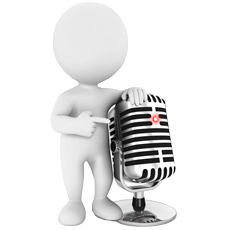
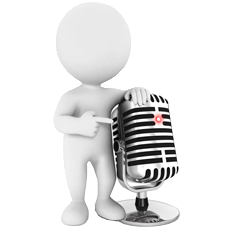
3.2.108

diff --git a/src/XMusic/cpp/mainwindow.cpp b/src/XMusic/cpp/mainwindow.cpp
@@ -650,7 +650,16 @@ void MainWindow::_relayout()
         }
 
         int cy_SingerImg = y_labelAlbumName-y_SingerImg;
-        int cx_SingerImg = cy_SingerImg * rcSingerImg.width() / rcSingerImg.height();
+
+        int cx_SingerImg = 0;
+        cauto pPixmap = ui.labelSingerImg->pixmap();
+        if (pPixmap && !pPixmap->isNull())
+        {
+            //cx_SingerImg = cy_SingerImg*1.05; //cy_SingerImg * rcSingerImg.width() / rcSingerImg.height();
+
+            cx_SingerImg = cy_SingerImg * pPixmap->width() / pPixmap->height();
+            cx_SingerImg = MIN(cx_SingerImg, cy_SingerImg*1.25);
+        }
 
         int x_SingerImg = x;
         if (!bZoomoutSingerImg)
@@ -715,11 +724,11 @@ void MainWindow::_relayout()
         }
     }
 
-//    auto pPixmap = ui.labelSingerImg->pixmap();
-//    if (pPixmap && !pPixmap->isNull())
-//    {
-//        ui.labelSingerImg->setPixmap(*pPixmap);
-//    }
+    /*auto pPixmap = ui.labelSingerImg->pixmap();
+    if (pPixmap && !pPixmap->isNull())
+    {
+        ui.labelSingerImg->setPixmap(*pPixmap);
+    }*/
 
 #define __CyPlayItem __size(115)
     UINT uRowCount = 0;
